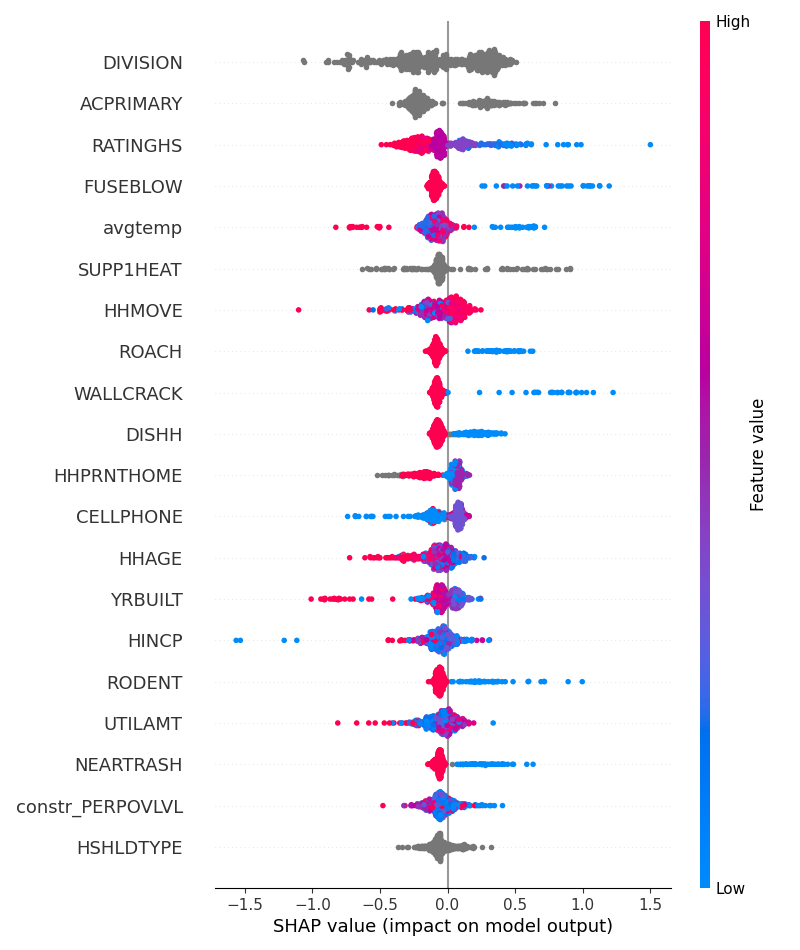
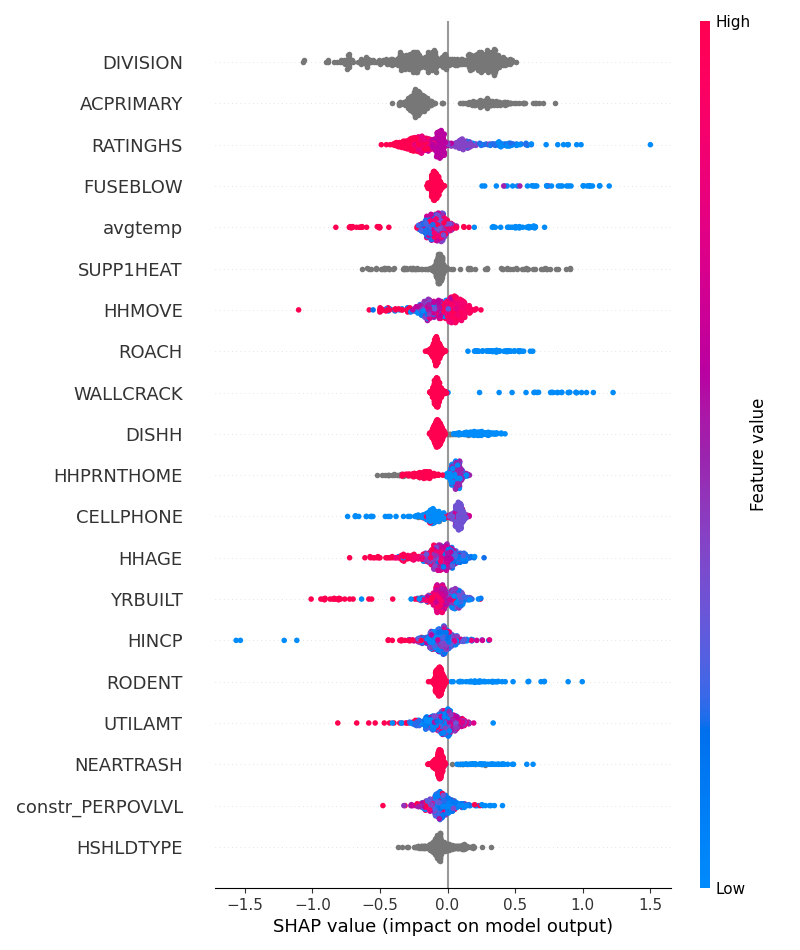
Basic updates to visuals and pipeline

diff --git a/code/02_projected_climate/02_analysis/02_xgboost_analysis.py b/code/02_projected_climate/02_analysis/02_xgboost_analysis.py
@@ -48,5 +48,10 @@ for year in YEARS:
     out = pl.DataFrame({"CONTROL": data["CONTROL"], "pred_prob_xgb_w": pred_probs_w})
     out.write_csv(f"output/projections/xgboost_{year}_with_weights.csv")
 
+    true_desc = data["energy_deprivation"].cast(pl.Float64).describe().rename({"value": "true_energy_deprivation"})
+    pred_desc = pl.Series("pred_energy_deprivation", pred_probs_w).describe().rename({"value": "pred_energy_deprivation"})
+    true_desc.join(pred_desc, on="statistic").write_csv(f"output/projections/xgboost_{year}_ep_summary_stats.csv")
+    print(f"EP summary stats saved to output/projections/xgboost_{year}_ep_summary_stats.csv")
+
     # mean_nw = model_nc_nw.predict_proba(X)[:, 1].mean()
     # print(f"WITHOUT WEIGHTS model — mean predicted EP probability: {mean_nw:.4f}")

diff --git a/code/investigate.py b/code/investigate.py
@@ -8,7 +8,11 @@ proj = pl.read_csv("data/processed/projected_climate/02_02_ahs_cmip_2050.csv")
 
 
 print("Current temps:")
-print(current[["mintemp", "maxtemp", "avgtemp"]].describe())
+current_temp_summary = current[["mintemp", "maxtemp", "avgtemp"]].describe()
+print(current_temp_summary)
+current_temp_summary.write_csv("output/current_temp_summary.csv")
 
 print("Projected temps:")
-print(proj[["proj_tasmin", "proj_tasmax", "proj_tas"]].describe())
+proj_temp_summary = proj[["proj_tasmin", "proj_tasmax", "proj_tas"]].describe()
+print(proj_temp_summary)
+proj_temp_summary.write_csv("output/projected_temp_summary.csv")
